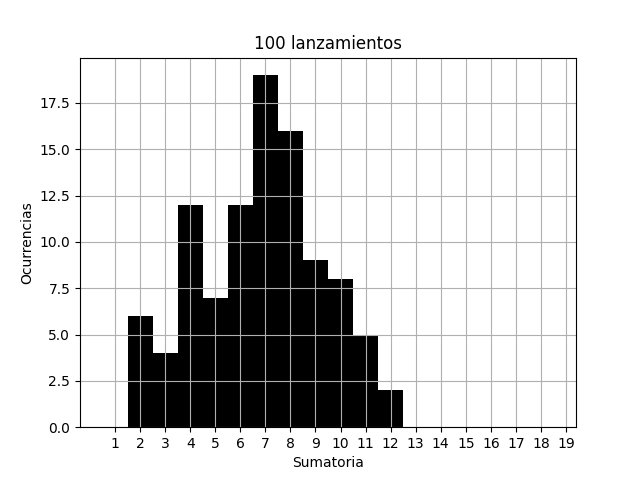
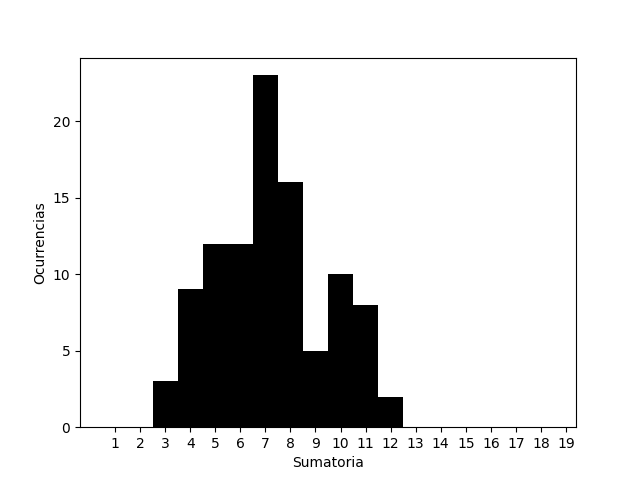
graficas corregidas

diff --git a/main.py b/main.py
@@ -1,7 +1,8 @@
 import matplotlib.pyplot as plt
 import numpy as np
 import random
-lanzamiento= [int( input("Ingrese numero de lanzamientos:") )]
+# lanzamiento= [int( input("Ingrese numero de lanzamientos:") )]
+lanzamiento=[10,100,1000,10000,10000]
 for i in lanzamiento:
     list = [random.randint(1,6) + random.randint(1,6) for i in range(i)]
     fig, axs = plt.subplots()
